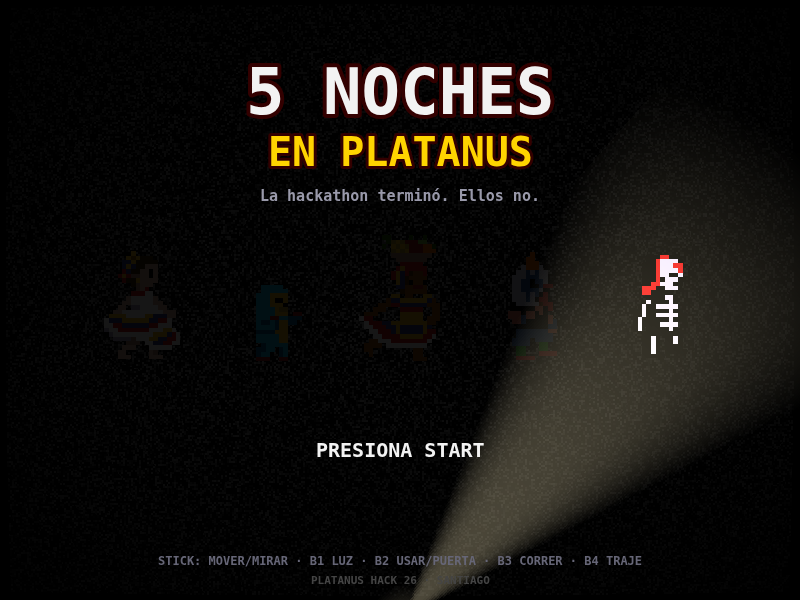
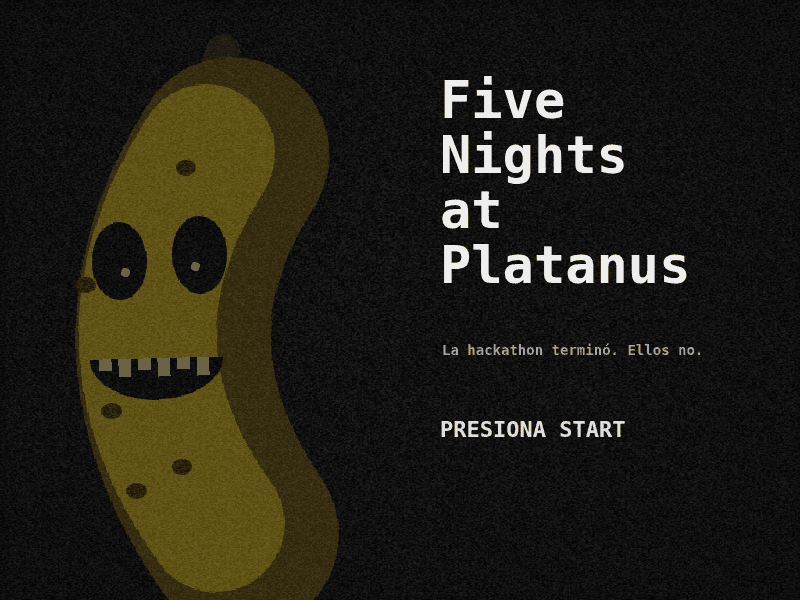
Rename to Five Nights at Platanus; banana mascot title and cover
New title screen: an overripe banana mascot with hollow eyes and a grin
stares out of the static, flickering and twitching, with the stacked
title on the right. cover.png is a capture of it.
To stay under 50 KB: dropped the look-around arrow hints, the title
footer, the newspaper subhead, the coder's cord line (the outlet LED
and the cut prompt remain) and merged the night-select lines.

diff --git a/game.js b/game.js
@@ -207,7 +207,7 @@ const SPOTS = [
   [[400, 250]],
   [[400, 300], [320, 220], [600, 330], [400, 500]],
 ];
-const PITCH_HOME = [400, 172], SLEEP_HOME = [210, 330], CHEF_HOME = [200, 200], CODER_HOME = [600, 222], LAPTOP = [600, 196];
+const PITCH_HOME = [400, 172], SLEEP_HOME = [210, 330], CHEF_HOME = [200, 200], CODER_HOME = [600, 222];
 // the blind spot right outside each of your doors (no camera sees it)
 const blindPt = (d) => { const c = CDOOR[d], p = DP[c.ad]; return [p[0] + (c.ad == 'W' ? 55 : c.ad == 'E' ? -55 : 0), p[1] + (c.ad == 'S' ? -45 : 0)]; };
 const blindDoor = (e) => ADOOR.find((d) => { const c = CDOOR[d], p = DP[c.ad]; return e.r == c.adj && dist(e.x, e.y, p[0], p[1]) < 125; });
@@ -242,7 +242,7 @@ let night, hl, grace, pitchOn, patience, pfast, wakeH, drain, cookOn, mentoraOn,
   blink, blinkT, blinkDur, dread, heartT, msgT, flick, scareT, breathT, phone, thought, thOnce, vigQ, vigOn, doomed, clicking, clickT, yawn1, yawn2,
   usage, lastView, lostTo, loseT, scrOn, scrDelay, E;
 // how many times each control has been used: prompts fade once learned
-const HINT = { look: 0, light: 0, door: 0, cams: 0, slide: 0 };
+const HINT = { light: 0, door: 0, cams: 0, slide: 0 };
 const learned = (k, n) => HINT[k] >= (n || 3);
 
 class HorrorPipeline extends Phaser.Renderer.WebGL.Pipelines.PostFXPipeline {
@@ -310,6 +310,15 @@ function buildFxTex() {
     return [255, v * 255];
   });
   pix('noise', 200, 150, () => [M.random() * 255, 255]);
+  // the title mascot: an overripe banana with hollow eyes and a grin
+  canvasTex('banana', 300, 540, (c) => {
+    const st = (col, w, x, y0, y1) => { c.strokeStyle = col; c.lineWidth = w; c.lineCap = 'round'; c.beginPath(); c.moveTo(x, y0); c.quadraticCurveTo(x - 110, 270, x, y1); c.stroke(); };
+    const el = (col, x, y, rx, ry, e) => { c.fillStyle = col; c.beginPath(); c.ellipse(x, y, rx, ry, 0, 0, e || PI * 2); c.fill(); };
+    st('#3a2608', 30, 185, 20, 70); st('#6a5208', 170, 190, 110, 440); st('#d8b414', 120, 168, 108, 430);
+    for (const [x, y] of [[80, 330], [150, 120], [100, 400], [60, 220], [140, 380]]) el('#4a3008', x, y, 9, 7); // overripe spots
+    el('#000', 90, 200, 24, 34); el('#000', 160, 196, 24, 34); el('#fff', 95, 210, 4, 4); el('#fff', 156, 206, 4, 4);
+    el('#000', 120, 285, 58, 36, PI); c.fillStyle = '#ccb'; for (let i = 0; i < 6; i++) c.fillRect(70 + i * 17, 285, 11, 10 + (i % 2) * 6);
+  });
 }
 
 // ---- Camera shots: each camera is a fixed, high-corner perspective view of
@@ -461,7 +470,7 @@ let wC, rC, oC, uC, uiCam;
 let bgImg, dynG, emG, projTxt, askTxt, lensImg, oBg, oG, oBeam, oDim, oLamp, oTop;
 const eImg = {}, oImg = {}, oDoors = {};
 // UI objects (u*) live in the uC layer, which the post-FX camera ignores
-let uArr, uC1, uC2, uCall, uCallName, uCallTxt, uCam, uCamBar, uCardN, uG, uHour, uHud, uLPress, uLStat, uLid, uLid2, uMapT, uMsg, uMug, uNight, uPPress, uPaperEnd, uPow, uPr, uScr, uScrT, uScreen, uStat, uSue, uT1, uTMenu, uTSub, uTab, uTh, uTitleBeam, uTitleFaces, uVig, uVigCap, uVigImg, uVigIn, uW1, uW2, uWDone, uWarn;
+let uC1, uC2, uCall, uCallName, uCallTxt, uCam, uCamBar, uCardN, uG, uHour, uHud, uLPress, uLStat, uLid, uLid2, uMapT, uMsg, uMug, uNight, uPPress, uPaperEnd, uPow, uPr, uScr, uScrT, uScreen, uStat, uSue, uT1, uTMenu, uTab, uTh, uTitleBan, uTitleStat, uVig, uVigCap, uVigImg, uVigIn, uW1, uW2, uWDone, uWarn;
 let zR, zO; // the sleeper's z's (or !! when angry)
 const TS = (sz, col, extra) => Object.assign({ fontFamily: 'monospace', fontSize: sz + 'px', color: col || '#fff', fontStyle: 'bold' }, extra);
 const add = (c, o) => { c.add(o); return o; };
@@ -524,7 +533,6 @@ function buildUI() {
   uPr = [0, 1, 2].map(() => T(0, 0, '', 13, '#fff', 0.5, 0.5, { backgroundColor: '#000000cc', padding: { x: 6, y: 3 } }));
   uCamBar = T(400, 580, '▲  CÁMARAS', 14, '#cfe', 0.5, 0.5, { backgroundColor: '#1f3b2acc', padding: { x: 70, y: 4 } });
   uWarn = T(560, 580, '⚠', 34, '#ffd400'); // FNAF2-style warning next to the camera bar
-  uArr = [T(16, 300, '◄', 30), T(784, 300, '►', 30)];
   uMsg = T(400, 140, '', 22, '#fff', 0.5, 0.5, { stroke: '#000', strokeThickness: 5, align: 'center' });
   uTh = T(400, 530, '', 14, '#1a1a22', 0.5, 1, { backgroundColor: '#e9e6f2', padding: { x: 10, y: 6 }, wordWrap: { width: 420 }, align: 'center', fontStyle: 'italic bold' });
   // "MIENTRAS TANTO..." comic panel
@@ -579,29 +587,22 @@ const writeSave = () => storage().set(SAVE_KEY, { night: saved.night }).catch(()
 function screen(m) { mode = m; modeT = 0; wC.setVisible(false); hideHud(); clearScreen(); }
 function goTitle() {
   screen('title');
-  uTitleFaces = ROLES.map((r, i) => sAdd(S.add.image(140 + i * 130, 360, r + '0').setScale(4.5).setOrigin(0.5, 1)));
-  uTitleBeam = sAdd(S.add.image(400, 620, 'cone').setOrigin(0, 0.5).setBlendMode(1).setScale(2.4, 2).setTint(0xfff0c0));
-  uT1 = sText(400, 92, '5 NOCHES', 64, '#f2f2f2', 0.5, 0.5, { stroke: '#300', strokeThickness: 8 });
-  sText(400, 152, 'EN PLATANUS', 40, '#ffd400', 0.5, 0.5, { stroke: '#300', strokeThickness: 6 });
-  sText(400, 196, 'La hackathon terminó. Ellos no.', 15, '#99a');
-  uTMenu = sText(400, 450, '', 20);
-  uTSub = sText(400, 484, '', 14, '#889');
-  sText(400, 580, 'PLATANUS HACK 26 · SANTIAGO', 11, '#444');
+  uTitleBan = sAdd(S.add.image(190, 340, 'banana').setScale(1.15));
+  uTitleStat = sAdd(S.add.tileSprite(0, 0, W, H, 'noise').setOrigin(0));
+  uT1 = sText(440, 70, 'Five\nNights\nat\nPlatanus', 52, '#eee', 0, 0, { lineSpacing: -6 });
+  sText(442, 350, 'La hackathon terminó. Ellos no.', 14, '#889', 0, 0.5);
+  uTMenu = sText(440, 430, '', 22, '#fff', 0, 0.5);
 }
 function titleUpdate() {
-  const lx = 400 + M.sin(modeT * 0.7) * 330, ang = M.atan2(-370, lx - 400);
-  uTitleBeam.setRotation(ang).setAlpha(M.random() < 0.05 ? 0.05 : 0.3);
-  uTitleFaces.forEach((im, i) => {
-    const d = M.abs(M.atan2(-290, im.x - 400) - ang);
-    im.setTint(d < 0.12 ? 0xffffff : d < 0.22 ? 0x777777 : 0x161616);
-    im.y = 360 + M.sin(modeT * 3 + i) * 2;
-  });
+  // the banana stares out of the static, flickers and twitches now and then
+  const tw = M.random() < 0.04;
+  uTitleBan.setAlpha(M.random() < 0.06 ? 0.2 : 0.75).setAngle(tw ? rnd(-7, 7) : uTitleBan.angle * 0.9).setX(tw ? rnd(175, 205) : 190).setTint(tw ? 0xff8080 : 0x909090);
+  uTitleStat.setTilePosition(rnd(0, 200), rnd(0, 150)).setAlpha(tw ? 0.4 : rnd(0.08, 0.16));
   uT1.setAlpha(M.random() < 0.03 ? 0.3 : 1);
   if (saved.night > 1) {
     if (pr('L')) menuNight = M.max(1, menuNight - 1), sfxBlip(1, 0, 400);
     if (pr('R')) menuNight = M.min(saved.night, menuNight + 1), sfxBlip(1, 0, 500);
-    uTMenu.setText('◄  NOCHE ' + menuNight + '  ►');
-    uTSub.setText(menuNight == 1 ? 'START · NUEVA PARTIDA' : 'START · CONTINUAR');
+    uTMenu.setText('◄ NOCHE ' + menuNight + ' ►  START');
   } else uTMenu.setText('PRESIONA START');
   uTMenu.setAlpha(0.6 + M.sin(modeT * 4) * 0.4);
   if (pr('S') || pr('1')) { sfxClick(); if (menuNight == 1) goPaper(0); else goCard(menuNight); }
@@ -618,7 +619,6 @@ function goPaper(end) {
   R(78, 92, 644, 3, 0x151515);
   T(110, (end ? 'SÁBADO 28' : 'DOMINGO 22') + ' DE NOVIEMBRE, 2026  ·  SANTIAGO', 11);
   T(156, end ? 'HACKATHON CONCLUYE SIN INCIDENTES' : '¡GANADORES VIAJAN A SAN FRANCISCO!', 31);
-  T(190, end ? 'Recinto devuelto impecable tras cinco noches de guardia' : 'Rafa y Nacho acompañan al equipo campeón', 15, { fontStyle: 'italic' });
   R(78, 226, 340, 260, 0x77746a);
   ROLES.forEach((r, i) => sAdd(S.add.image(i * 64 - 258, 170, r + '0').setScale(2.8).setOrigin(0.5, 1).setTint(end ? 0x5e5b52 : 0x2a2a2a).setAlpha(end ? 0.5 : 1), pc));
   if (end) T(502, 'Foto: el recinto, vacío. (¿quiénes son esos del fondo?)', 11, { fontStyle: 'italic' }, 248);
@@ -766,7 +766,6 @@ function input(dt) {
   const dir = hd('R') - hd('L');
   panV = lerp(panV, office ? dir * 820 : 0, 1 - M.pow(0.0008, dt));
   pan = clamp(pan + panV * dt, 0, PW - W);
-  if (dir && office) HINT.look += dt / 1.5;
   let best = null, bd = 260;
   for (const d of ADOOR) { const dd = M.abs(OCENTER[d] - pan - 400); if (dd < bd) { bd = dd; best = d; } }
   if (M.abs(COFFEE_X - pan - 400) < 80) best = 'C';
@@ -1129,10 +1128,9 @@ function renderCam(r) {
     const q = doorPts(CDOOR[d].ad), f = doorP[d];
     dynG.fillStyle(0x5a5f66).fillPoints(pts([q[3], q[2], [q[2][0], q[2][1] + (q[1][1] - q[2][1]) * f], [q[3][0], q[3][1] + (q[0][1] - q[3][1]) * f]]), true);
   }
-  // the coder's extension cord, from his laptop to the outlet
+  // the coder's outlet blinks while he is plugged in
   if (plug == r) {
-    const a = P(LAPTOP[0], LAPTOP[1] + 20), m = P(660, 380), b = P(745, 470, 30);
-    dynG.lineStyle(4, 0x111111).strokePoints(pts([a, m, b]));
+    const b = P(745, 470, 30);
     emG.fillStyle(tick(4) ? 0x44ff66 : 0x117722).fillRect(b[0] - 5, b[1] - 5, 10, 10);
   }
   if (r == 1) {
@@ -1289,7 +1287,6 @@ function renderHud(dt) {
   // warning sign next to the camera bar when the pitcher is about to lose it
   const mr = E.mentora.st == 'RUSH' && E.mentora.kd; // she is running to that door
   uWarn.setVisible(office && (mr || (pitchOn && p.st == 'PITCH' && p.bar < 0.35))).setAlpha(tick(3) ? 1 : 0.3).setColor(mr ? '#c77dff' : '#ffd400').setPosition(mr ? { W: 40, N: 400, E: 760 }[mr] : 560, mr ? (mr == 'N' ? 110 : 300) : 580);
-  uArr.forEach((t, i) => t.setVisible(office && !learned('look', 2) && (i ? pan < PW - W - 40 : pan > 40)).setAlpha(0.4 + M.sin(now * 5) * 0.4));
   if (office && !blackout && drink <= 0) {
     if (CDOOR[focus]) {
       // FNAF-style: the hints live inside the doorway you are looking at
